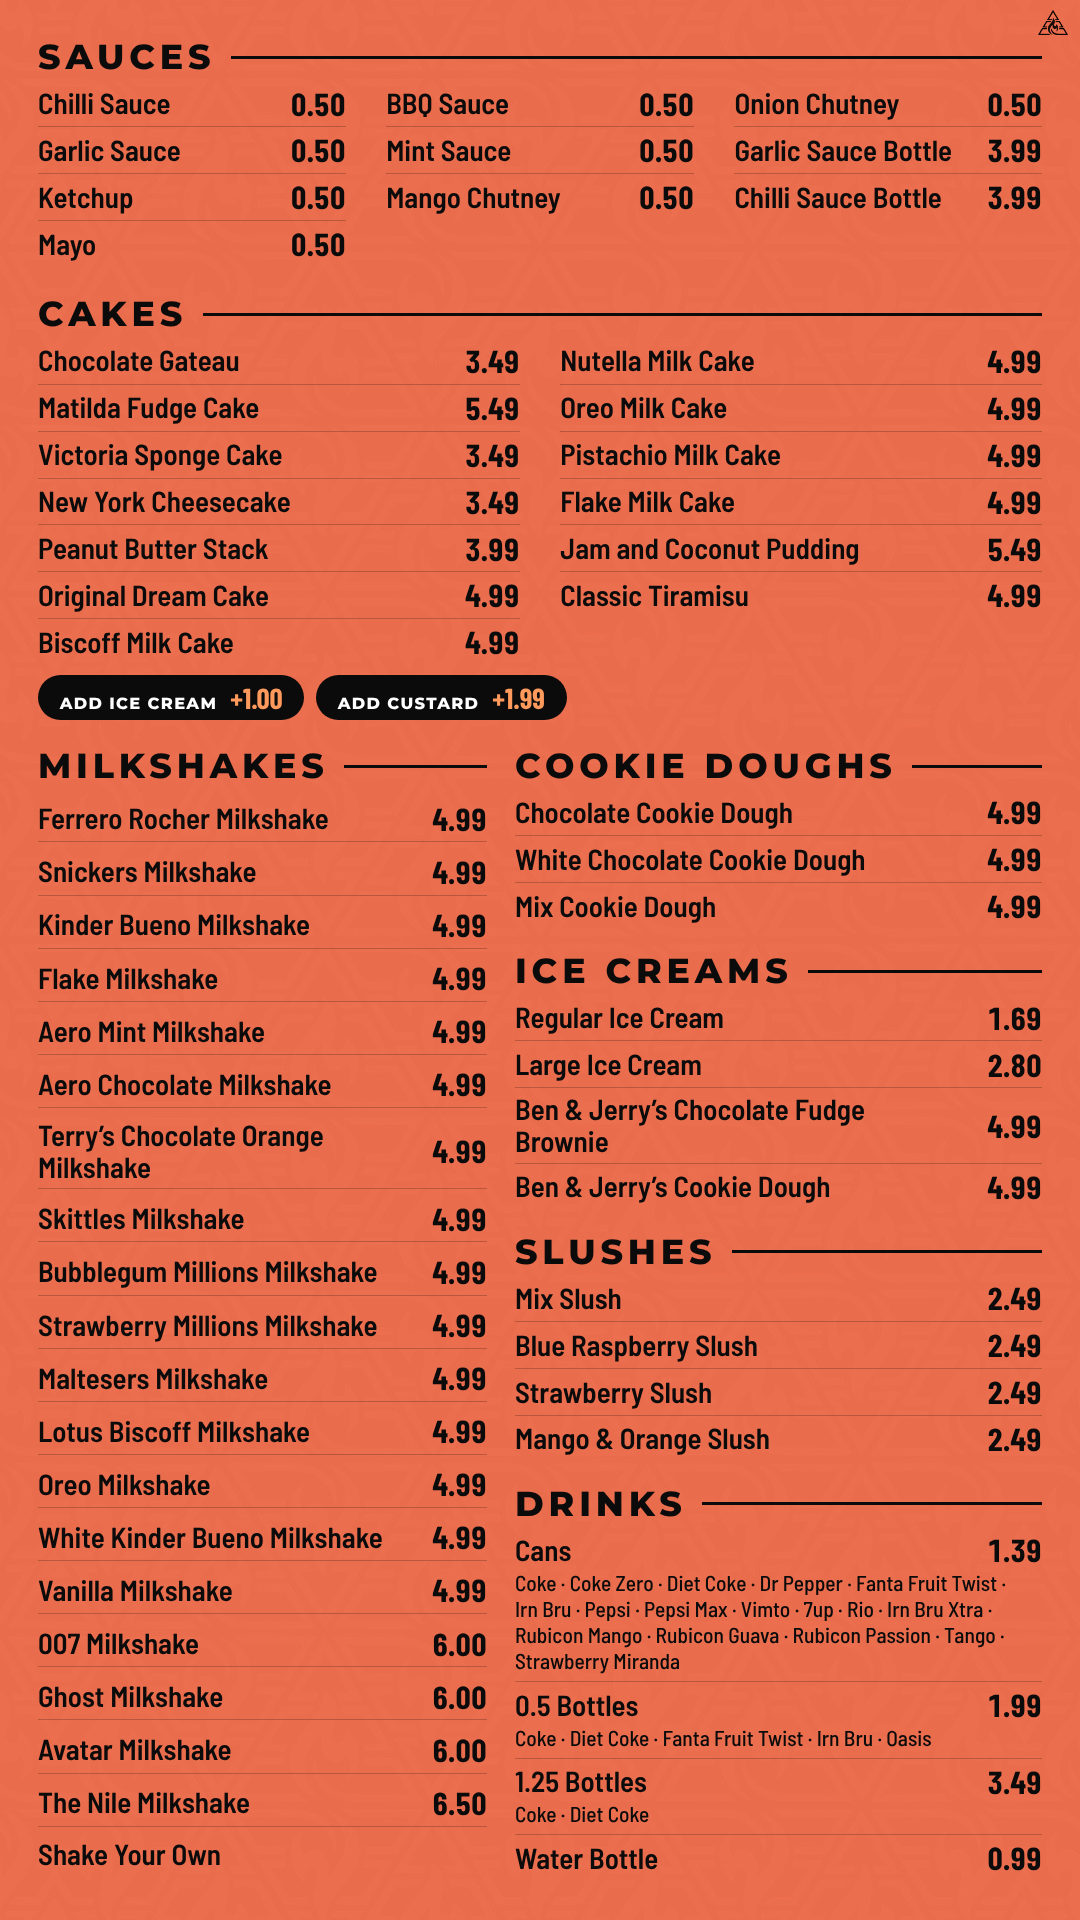
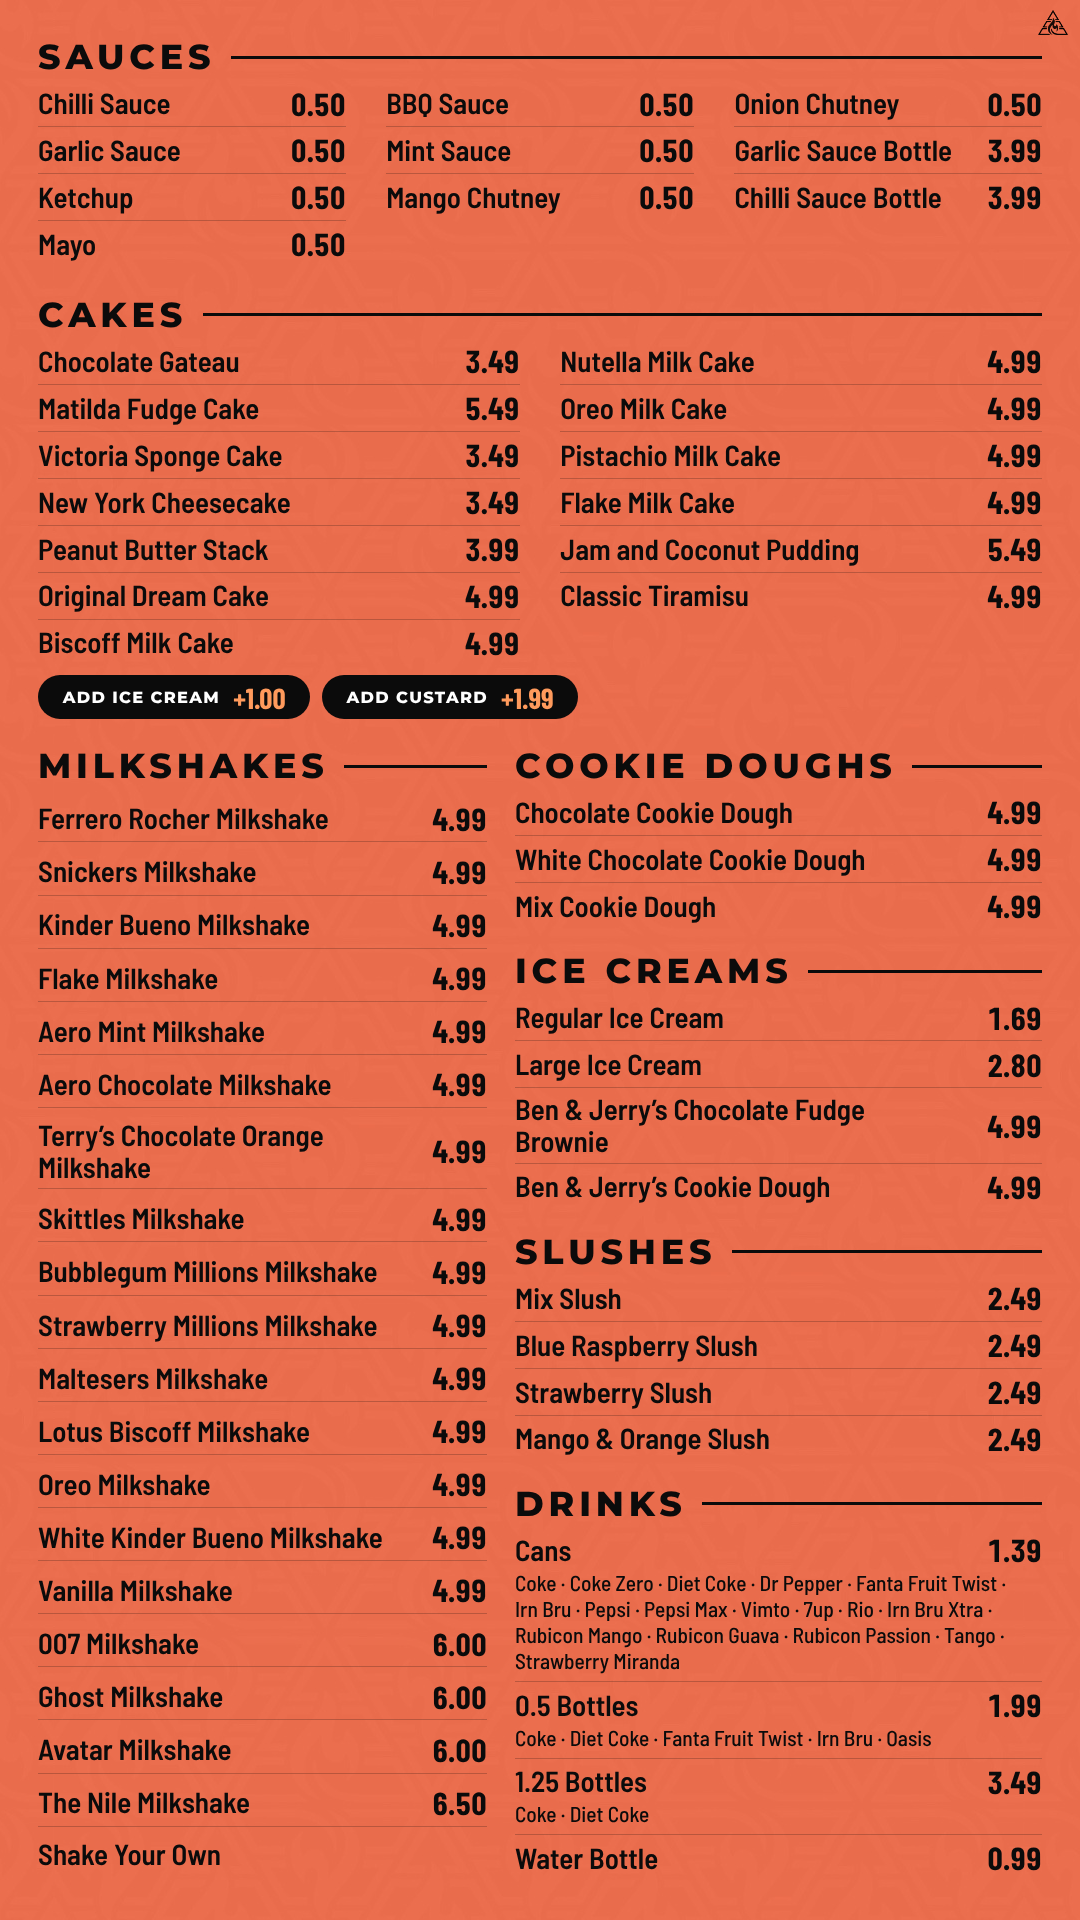
Centre the text inside the Make it a Meal / add-on pills
Claude-Session: https://claude.ai/code/session_013RPUouk4WdEs3vMVAGzuyr

diff --git a/The Nile/board.css b/The Nile/board.css
@@ -178,13 +178,16 @@ html, body {
 }
 .tag {
   display: inline-flex;
-  align-items: baseline;
+  align-items: center;       /* text sits in the middle of the black pill */
+  justify-content: center;
   gap: 0.45em;
   background: var(--ink);
   color: #fff;
   border-radius: 999px;
-  padding: 0.16em 0.75em 0.18em;
+  padding: 0.26em 0.85em;
+  line-height: 1;
 }
+.tag-l, .tag-p { display: block; line-height: 1; }
 .tag-l {
   font-family: "Montserrat", sans-serif;
   font-weight: 800;
